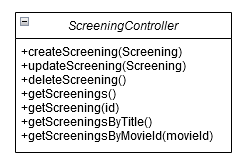
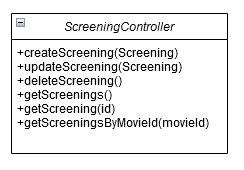
Removing mentions of deleted methods in Screening documentation

Changed region(s): [[0.0287, 0.0595, 0.9467, 0.9226]]

diff --git a/docs/DesignDoc.md b/docs/DesignDoc.md
@@ -161,9 +161,9 @@ selected movie and date and time of the screening using the `MovieSelectorServic
 
 The `ScreeningController` is used to respond to HTTP requests for `Screening` objects. There are methods that handle simple GET, POST, PUT, DELETE requests.
 The POST and PUT requests require a `Screening` object as an argument, to insert into the storage of `Screening` objects.
-The methods `getScreeningByTitle` and `getScreeningsByMovieId` are used to find all `Screenings` related to a movie.
+The method `getScreeningsByMovieId` is used to find all `Screenings` for a `Movie`.
 The `getScreeningsByMovieId` takes an argument representing a movie id to search for, and returns an array of all `Screenings` for that movie.
-This method is used in the View Tier to display all screenings of a movie when they are placing an order.
+This method is used in the View Tier to display all screenings of a movie when a user is placing an order.
 
 ![MovieController UML Diagram](uml-diagrams/movie-controller.png)
 
